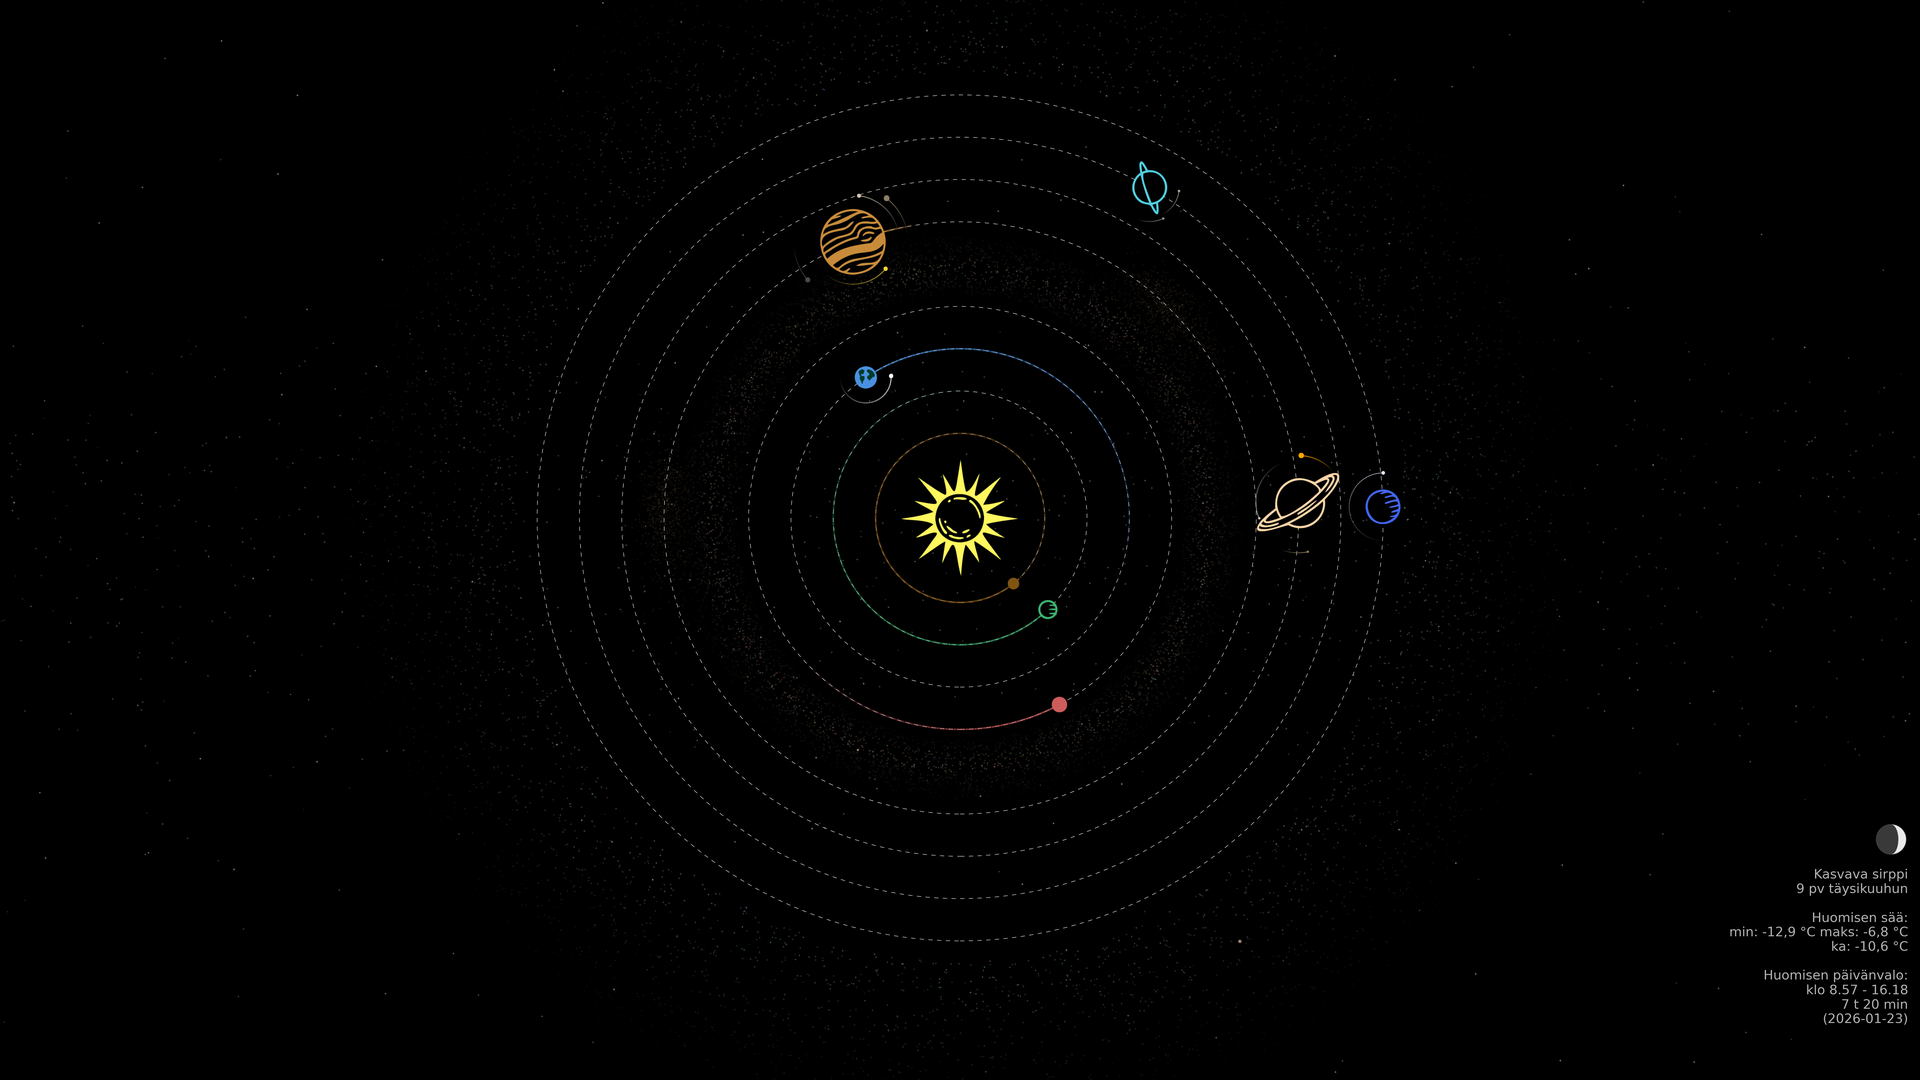
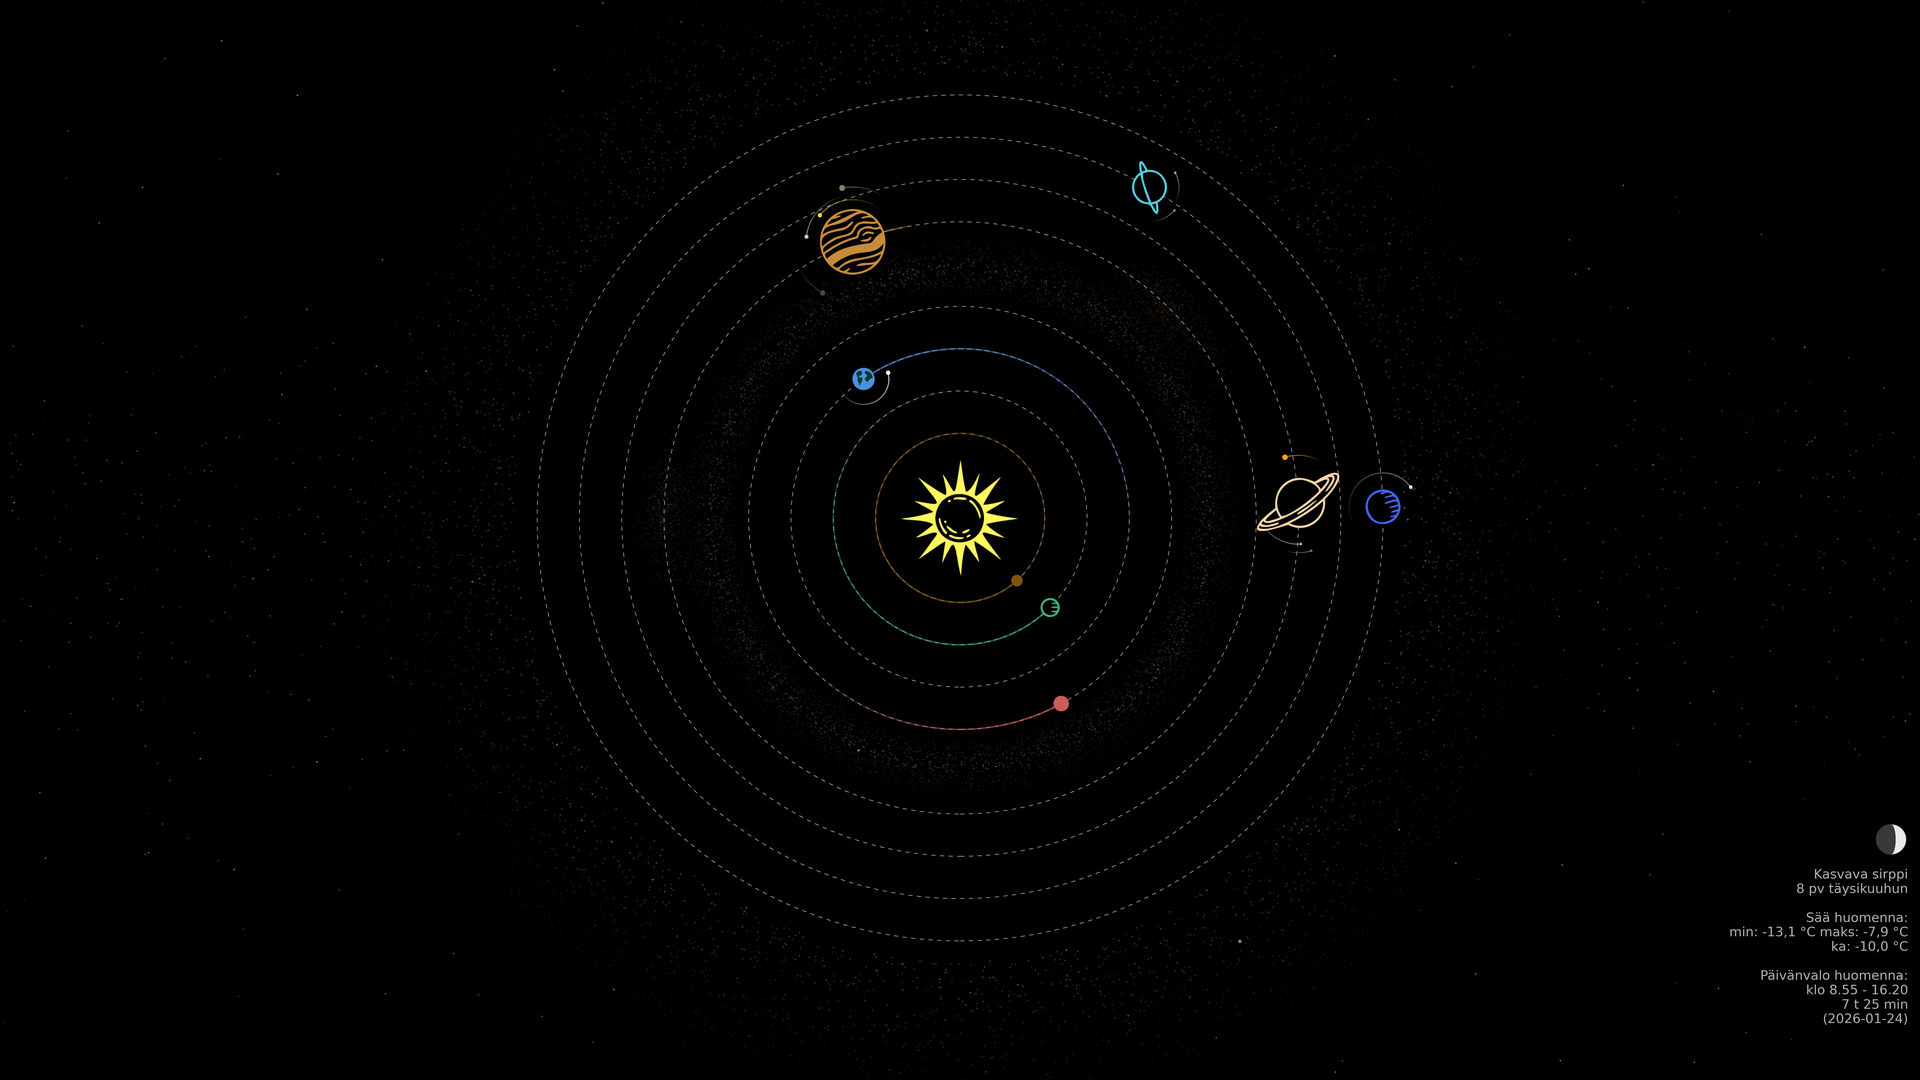
Background stars masked ver 2

diff --git a/solarmap.py b/solarmap.py
@@ -185,7 +185,7 @@ def get_tomorrow_forecast(lat, lon):
 
 # Get weather forecast
 min_temp, max_temp, avg_temp = get_tomorrow_forecast(latitude, longitude)
-weather_line = f"\nHuomisen sää:\nmin: {min_temp:+.1f} °C maks: {max_temp:+.1f} °C\nka: {avg_temp:+.1f} °C\n".replace('.', ',') if min_temp is not None else ""
+weather_line = f"\nSää huomenna:\nmin: {min_temp:+.1f} °C maks: {max_temp:+.1f} °C\nka: {avg_temp:+.1f} °C\n".replace('.', ',') if min_temp is not None else ""
 
 # Get current time
 if custom_date is None or custom_date == "Now":
@@ -253,42 +253,7 @@ cy = cy + cy_offset
 
 
 # ═══════════════════════════════════════════════════════════════════════════
-# 6. BACKGROUND STARS
-# ═══════════════════════════════════════════════════════════════════════════
-
-# Calculate aspect-aware limits for stars
-aspect = fig_width / fig_height
-if fig_aspect > 1:  # Wider than tall
-    star_xlim = (-1.3 * aspect, 1.3 * aspect)
-    star_ylim = (-1.3, 1.3)
-else:  # Taller than wide
-    star_xlim = (-1.3, 1.3)
-    star_ylim = (-1.3 / aspect, 1.3 / aspect)
-
-# Generate stars
-np.random.seed(RANDOM_SEED)
-
-# Base stars
-num_stars = STARS_CONFIG['base_count']
-star_x = np.random.uniform(star_xlim[0], star_xlim[1], num_stars)
-star_y = np.random.uniform(star_ylim[0], star_ylim[1], num_stars)
-base_min, base_max = STARS_CONFIG['base_size_range']
-star_sizes = np.random.uniform(base_min, base_max, num_stars)
-ax.scatter(star_x, star_y, s=star_sizes, c='white', alpha=STARS_CONFIG['base_alpha'], marker='.')
-
-# Dense band
-band_stars = STARS_CONFIG['band_count']
-band_x = np.random.uniform(star_xlim[0], star_xlim[1], band_stars)
-band_y = np.random.normal(0, STARS_CONFIG['band_width'], band_stars)
-band_min, band_max = STARS_CONFIG['band_size_range']
-band_sizes = np.random.uniform(band_min, band_max, band_stars)
-ax.scatter(band_x, band_y, s=band_sizes, c='white', alpha=STARS_CONFIG['band_alpha'], marker='.')
-
-
-
-
-# ═══════════════════════════════════════════════════════════════════════════
-# 7. PLANETARY RINGS AND RADII
+# 6. PLANETARY RINGS AND RADII
 # ═══════════════════════════════════════════════════════════════════════════
 
 # Rings
@@ -312,6 +277,59 @@ for i, r in enumerate(rings[:-1]):  # All rings except the last one
 
 # Radii for each planet
 planet_radii = {p.name: rings[i] for i, p in enumerate(planets)}
+
+
+
+
+# ═══════════════════════════════════════════════════════════════════════════
+# 7. BACKGROUND STARS
+# ═══════════════════════════════════════════════════════════════════════════
+
+# Calculate aspect-aware limits for stars
+aspect = fig_width / fig_height
+if fig_aspect > 1:  # Wider than tall
+    star_xlim = (-1.3 * aspect, 1.3 * aspect)
+    star_ylim = (-1.3, 1.3)
+else:  # Taller than wide
+    star_xlim = (-1.3, 1.3)
+    star_ylim = (-1.3 / aspect, 1.3 / aspect)
+
+# Generate stars
+np.random.seed(RANDOM_SEED)
+
+# Base stars
+num_stars = STARS_CONFIG['base_count']
+star_x = np.random.uniform(star_xlim[0], star_xlim[1], num_stars)
+star_y = np.random.uniform(star_ylim[0], star_ylim[1], num_stars)
+base_min, base_max = STARS_CONFIG['base_size_range']
+star_sizes = np.random.uniform(base_min, base_max, num_stars)
+
+# Dense band
+band_stars = STARS_CONFIG['band_count']
+band_x = np.random.uniform(star_xlim[0], star_xlim[1], band_stars)
+band_y = np.random.normal(0, STARS_CONFIG['band_width'], band_stars)
+band_min, band_max = STARS_CONFIG['band_size_range']
+band_sizes = np.random.uniform(band_min, band_max, band_stars)
+
+# Mask out stars inside Neptune's ring
+neptune_radius = planet_radii['Neptune']
+star_distances = np.sqrt((star_x - cx)**2 + (star_y - cy)**2)
+band_distances = np.sqrt((band_x - cx)**2 + (band_y - cy)**2)
+
+star_mask = star_distances > neptune_radius * 1.05
+band_mask = band_distances > neptune_radius * 1.05
+
+star_x = star_x[star_mask]
+star_y = star_y[star_mask]
+star_sizes = star_sizes[star_mask]
+
+band_x = band_x[band_mask]
+band_y = band_y[band_mask]
+band_sizes = band_sizes[band_mask]
+
+# Plot stars
+ax.scatter(star_x, star_y, s=star_sizes, c='white', alpha=STARS_CONFIG['base_alpha'], marker='.')
+ax.scatter(band_x, band_y, s=band_sizes, c='white', alpha=STARS_CONFIG['band_alpha'], marker='.')
 
 
 
@@ -941,7 +959,7 @@ if show_info_text:
         f"{days_to_full:.0f} pv täysikuuhun\n"
         f"{weather_line}"
         f"\n"
-        f"Huomisen päivänvalo:\n"
+        f"Päivänvalo huomenna:\n"
         f"klo {sunrise_time} - {sunset_time}\n"
         f"{daylight_hours} t {daylight_mins} min\n"
         f"({date_str})"
